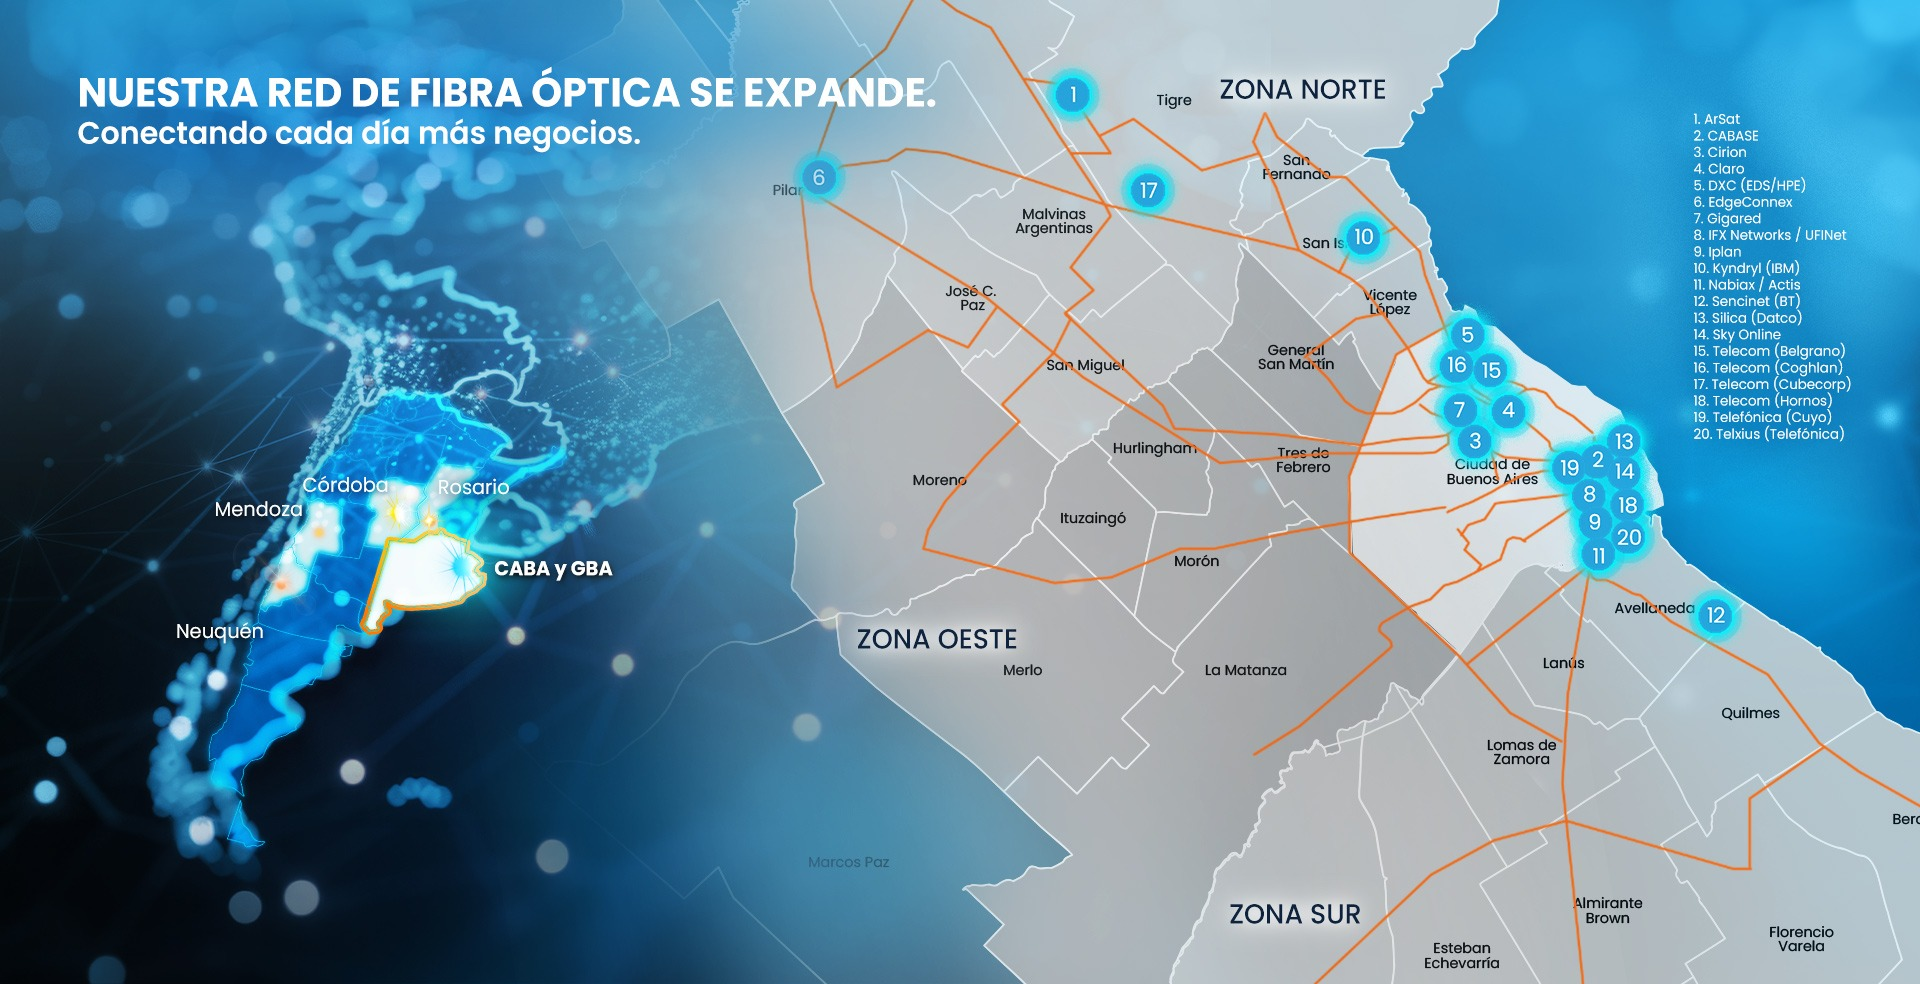
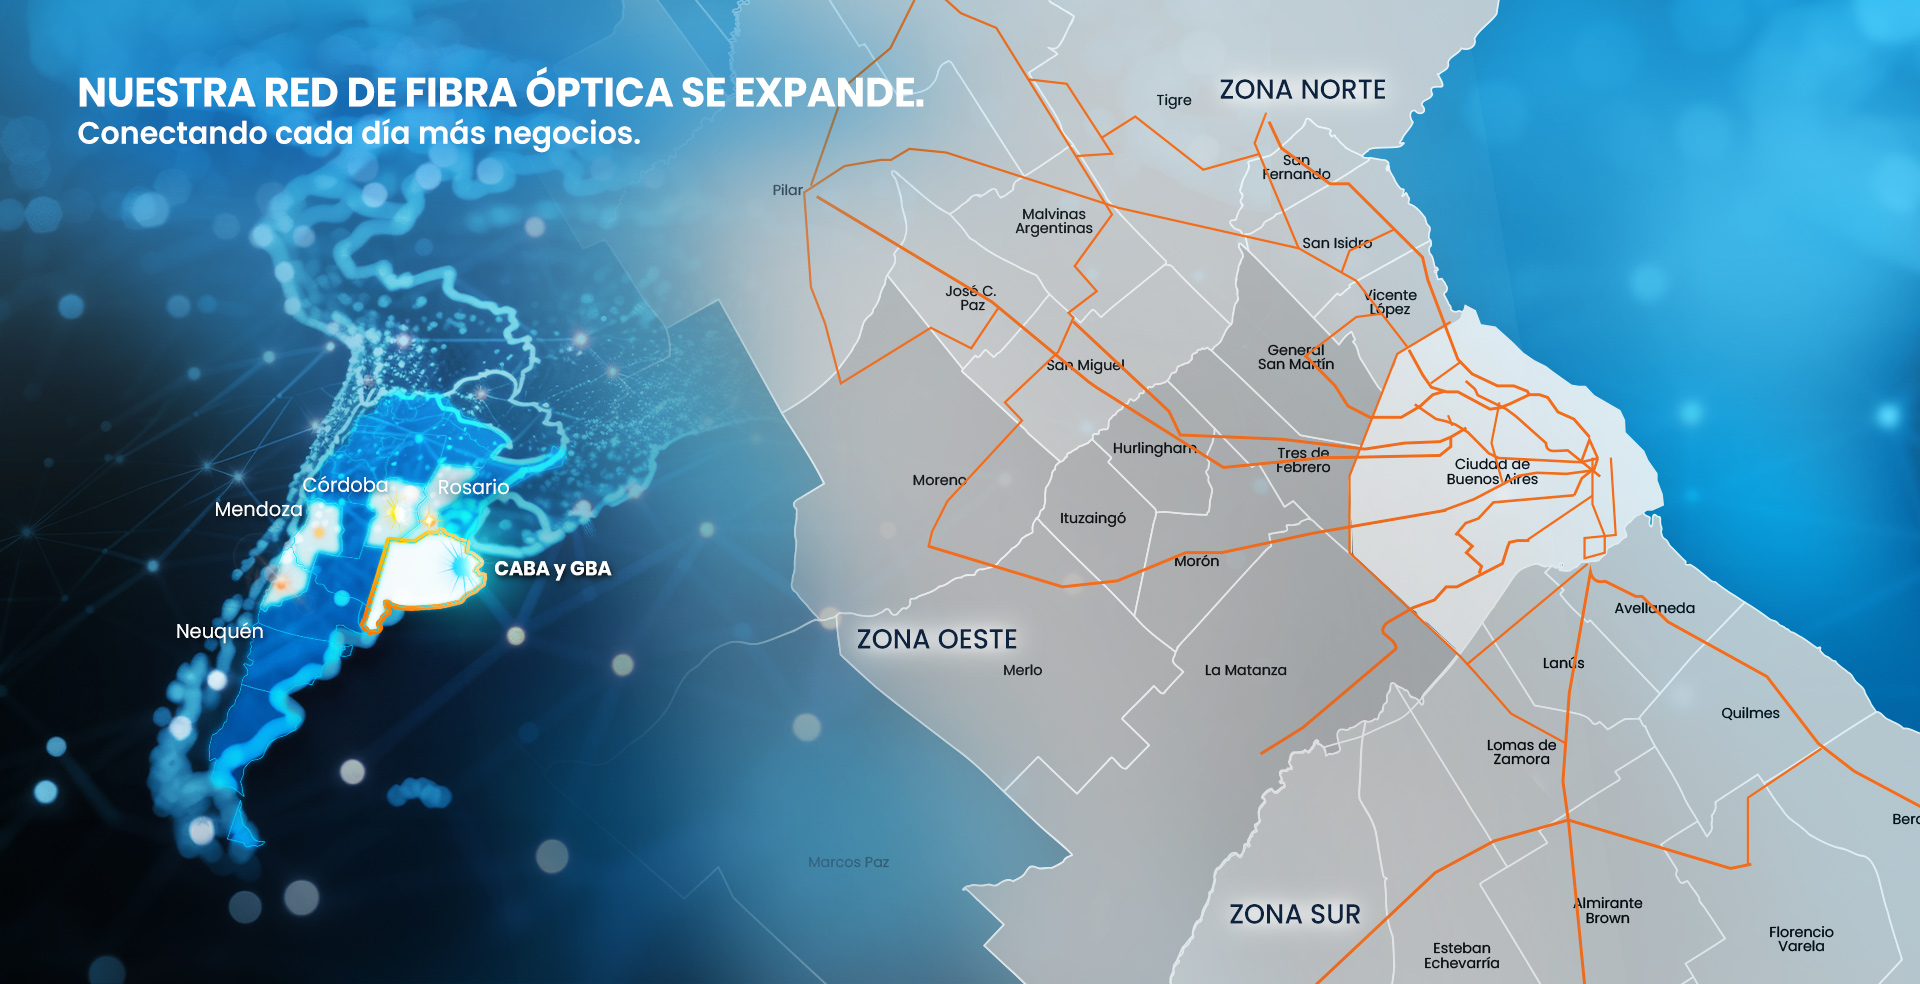
modificaciones

diff --git a/index.html b/index.html
@@ -3,18 +3,179 @@
 <head>
     <meta charset="UTF-8">
     <meta name="viewport" content="width=device-width, initial-scale=1.0">
-    <title>Interactive Image with Points</title>
-    <link rel="stylesheet" href="styles.css">
+    <title>Interactive Map</title>
+    <style>
+        /* Estilos CSS */
+        #image-container {
+            position: relative;
+            width: 100%;
+            max-width: 1920px;
+            background-color: #f0f0f0; /* Fondo temporal para verificar visibilidad */
+        }
+        #image-container img {
+            width: 100%;
+            height: auto;
+        }
+        .point {
+            position: absolute;
+            background-color: rgb(88, 161, 239); /* Tono celeste */
+            color: white;
+            border-radius: 50%;
+            width: 2vw; /* Tamaño base del punto */
+            height: 2vw; /* Tamaño base del punto */
+            display: flex;
+            justify-content: center;
+            align-items: center;
+            cursor: pointer;
+            font-size: 1em; /* Usa em para escalar con el contenedor */
+            box-shadow: 0 0 15px rgb(57, 109, 165); /* Borde irradiado en tono celeste más visible */
+            z-index: 10; /* Asegura que el punto esté por encima de otros elementos */
+            transition: background-color 0.3s ease, box-shadow 0.3s ease, transform 0.3s ease; /* Transición suave */
+        }
+        .point:hover {
+            background-color: rgb(57, 109, 165);
+            box-shadow: 0 0 25px rgb(57, 109, 165);
+            transform: scale(1.1); /* Escala ligeramente el punto en hover */
+        }
+        .highlight {
+            background-color: rgb(57, 109, 165);
+            color: white;
+            transition: background-color 0.3s ease; /* Transición suave para el resaltado */
+        }
+        #reference-list {
+            position: absolute;
+            top: 1vw;
+            right: 2.5vw;
+            background-color: rgba(0, 0, 0, 0); /* Fondo transparente */
+            padding: 0.2vw;
+            border-radius: 0.5vw;
+            list-style: none;
+            margin: 0;
+            font-size: 0.3em; /* Tamaño de letra más pequeño usando em */
+            max-height: 20vh; /* Altura máxima para la lista */
+            transition: opacity 0.3s ease; /* Transición suave para la opacidad */
+        }
+        #reference-list li {
+            padding: 0.1vw 0.2vw; /* Menos separación */
+            cursor: pointer;
+            color: white; /* Color del texto en blanco */
+            transition: background-color 0.3s ease;
+            font-size: 0.1em; 
+        }
+        #reference-list li:hover {
+            background-color: rgba(255, 255, 255, 0.1);
+        }
+
+        @media (max-width: 768px) {
+            .point {
+                width: 4vw; /* Ajusta el tamaño del punto para pantallas pequeñas */
+                height: 4vw; /* Ajusta el tamaño del punto para pantallas pequeñas */
+                font-size: 0.8em; /* Ajusta el tamaño de la fuente */
+            }
+            #reference-list {
+                display: none; /* Oculta la lista de referencia en pantallas pequeñas */
+            }
+        }
+
+    </style>
 </head>
 <body>
-    <div id="image-container">
-        <img id="interactive-image" src="./metrotel.jpg" alt="Interactive Image">
-        <ul id="reference-list">
-            <li data-point="0">1- Ubicación 1</li>
-            <li data-point="1">2- Ubicación 2</li>
-            <li data-point="2">3- Ubicación 3</li>
-        </ul>
+    <div id="custom-container">
+        <div id="image-container">
+            <img id="interactive-image" src="./metrotel.jpg" alt="Interactive Image">
+            <ul id="reference-list">
+                <li data-point="0">1. ArSat</li>
+                <li data-point="1">2. CABASE</li>
+                <li data-point="2">3. Cirion</li>
+                <li data-point="3">4. Claro</li>
+                <li data-point="4">5. DXC(EDS/HPE)</li>
+                <li data-point="5">6. EdgeConnex</li>
+                <li data-point="6">7. Gigared</li>
+                <li data-point="7">8. IFX Networks/UFINet</li>
+                <li data-point="8">9. Iplan</li>
+                <li data-point="9">10. Kyndryl(IBM)</li>
+                <li data-point="10">11. Nabiax / Actis</li>
+                <li data-point="11">12. Sencinet (BT)</li>
+                <li data-point="12">13. Silica (Datco)</li>
+                <li data-point="13">14. Sky Online</li>
+                <li data-point="14">15. Telecom (Belgrano)</li>
+                <li data-point="15">16. Telecom (Coghlan)</li>
+                <li data-point="16">17. Telecom (Cubecorp)</li>
+                <li data-point="17">18. Telecom (Hornos)</li>
+                <li data-point="18">19. Telefónica (Cuyo)</li>
+                <li data-point="19">20. Telxius (Telefónica)</li>
+            </ul>
+        </div>
+        <script>
+            document.addEventListener('DOMContentLoaded', function () {
+                const imageContainer = document.getElementById('image-container');
+                const referenceList = document.getElementById('reference-list').children;
+    
+        
+                function addPoint(xPercent, yPercent, index) {
+                    const point = document.createElement('div');
+                    point.classList.add('point');
+                    point.style.left = `${xPercent}%`;
+                    point.style.top = `${yPercent}%`;
+                    point.dataset.index = index;
+                    point.textContent = index + 1;
+        
+                    point.addEventListener('mouseenter', () => {
+                        for (let i = 0; i < referenceList.length; i++) {
+                            referenceList[i].classList.remove('highlight');
+                        }
+                        referenceList[index].classList.add('highlight');
+                    });
+        
+                    point.addEventListener('mouseleave', () => {
+                        referenceList[index].classList.remove('highlight');
+                    });
+        
+                    imageContainer.appendChild(point);
+                }
+        
+                // Ejemplo de ubicaciones. Añadir 20 ubicaciones reales
+                addPoint(55, 8, 0);
+                addPoint(82, 45, 1);
+                addPoint(76, 43, 2);
+                addPoint(78, 41, 3);
+                addPoint(75.7, 31.5, 4);
+                addPoint(42, 17, 5);
+                addPoint(75, 40, 6);
+                addPoint(81, 48.5, 7);
+                addPoint(81.5, 52, 8);
+                addPoint(70, 22.5, 9);
+                addPoint(82, 55, 10);
+                addPoint(88.5, 60, 11);
+                addPoint(83, 41, 12);
+                addPoint(83.5, 44, 13);
+                addPoint(77, 36, 14);
+                addPoint(75, 35, 15);
+                addPoint(58.5, 18.1, 16);
+                addPoint(83.7, 47.7, 17);
+                addPoint(80, 45.8, 18);
+                addPoint(83.8, 51.5, 19);
+        
+                for (let i = 0; i < referenceList.length; i++) {
+                    referenceList[i].addEventListener('mouseenter', function () {
+                        const pointIndex = this.dataset.point;
+                        const point = document.querySelector(`.point[data-index="${pointIndex}"]`);
+                        point.style.color = 'black';
+                    });
+        
+                    referenceList[i].addEventListener('mouseleave', function () {
+                        const pointIndex = this.dataset.point;
+                        const point = document.querySelector(`.point[data-index="${pointIndex}"]`);
+                        point.style.color = 'white';
+                    });
+                }
+        
+
+        
+            });
+        </script>
+        
+        
     </div>
-    <script src="script.js"></script>
 </body>
 </html>
